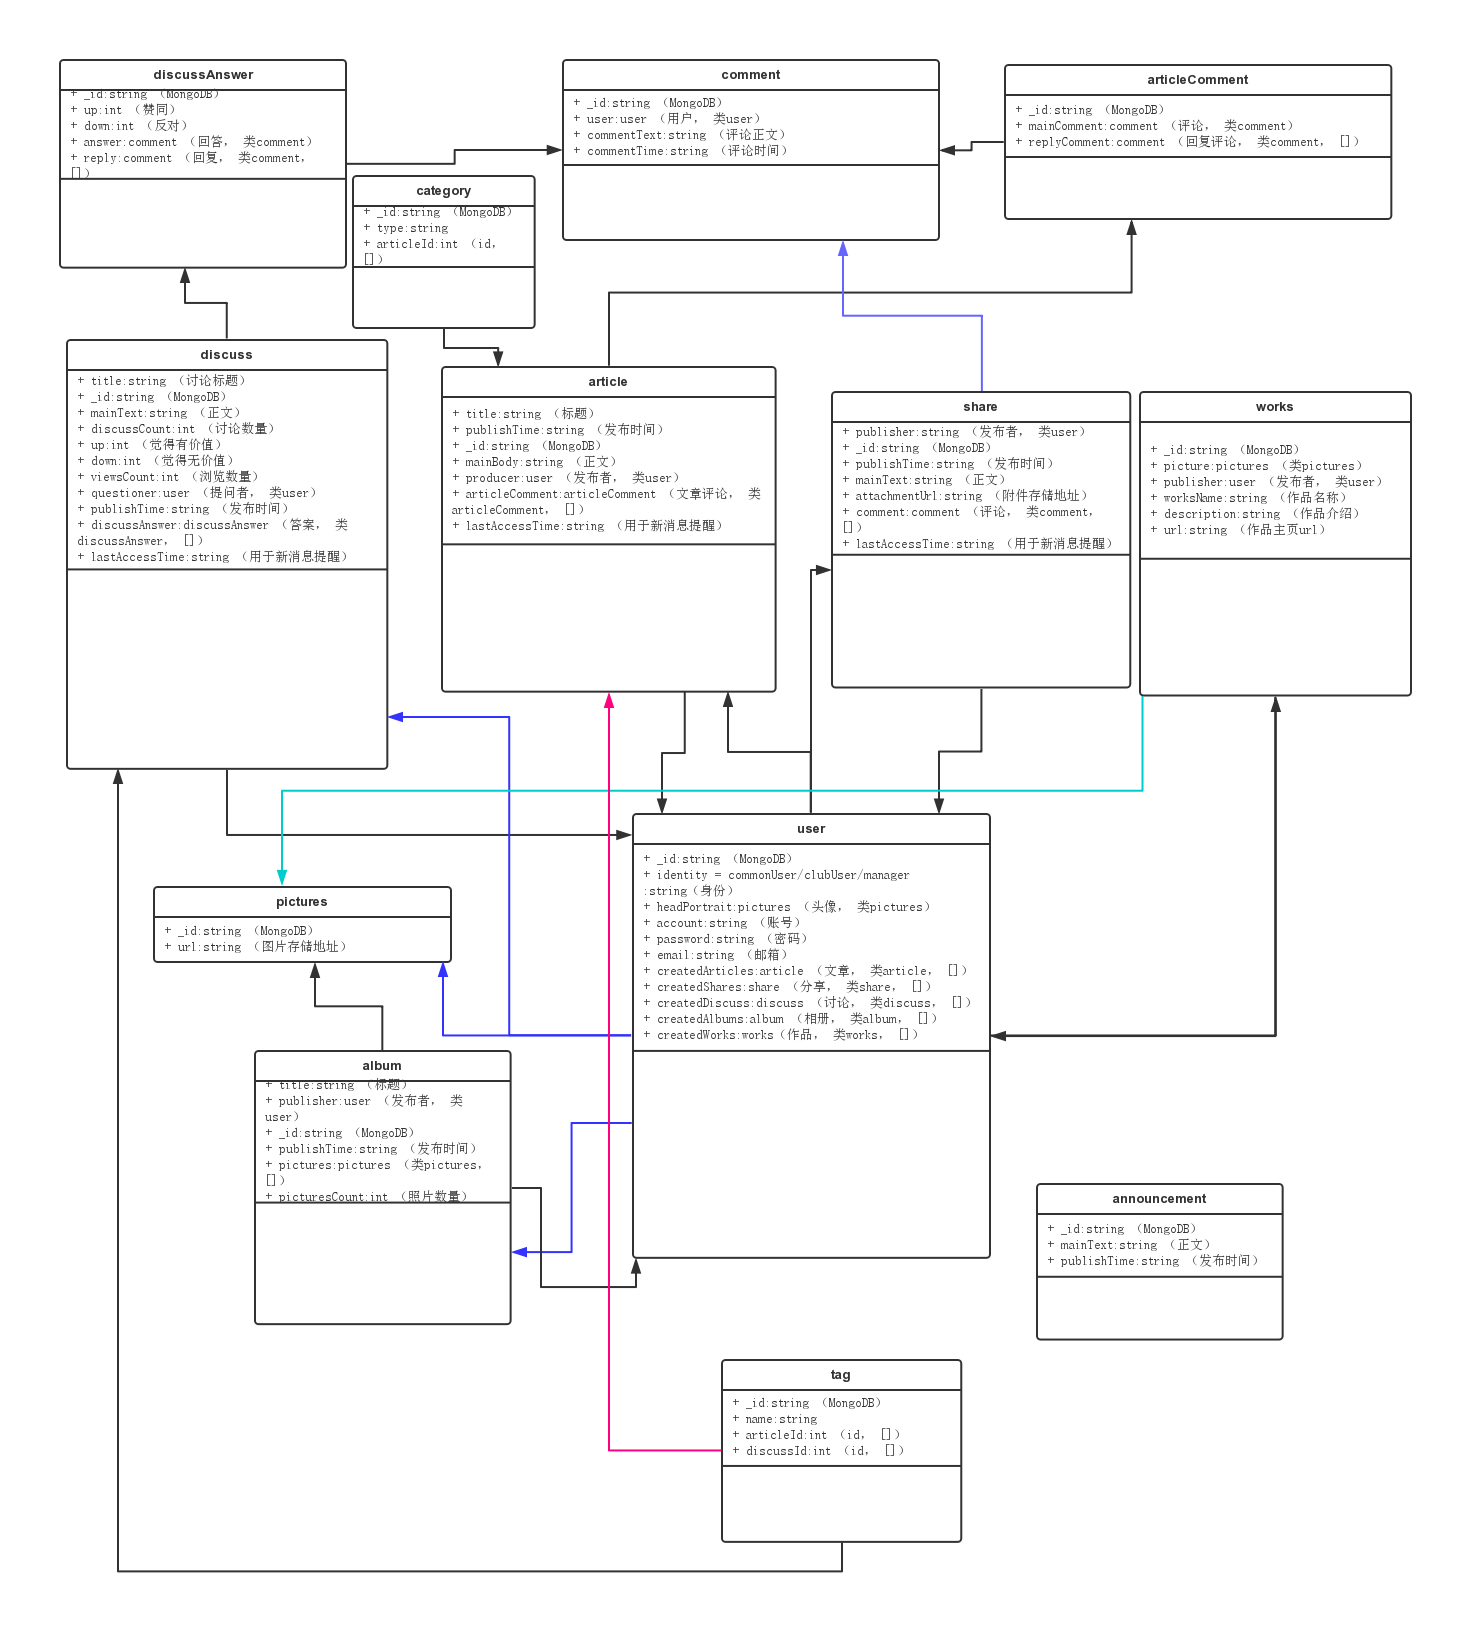
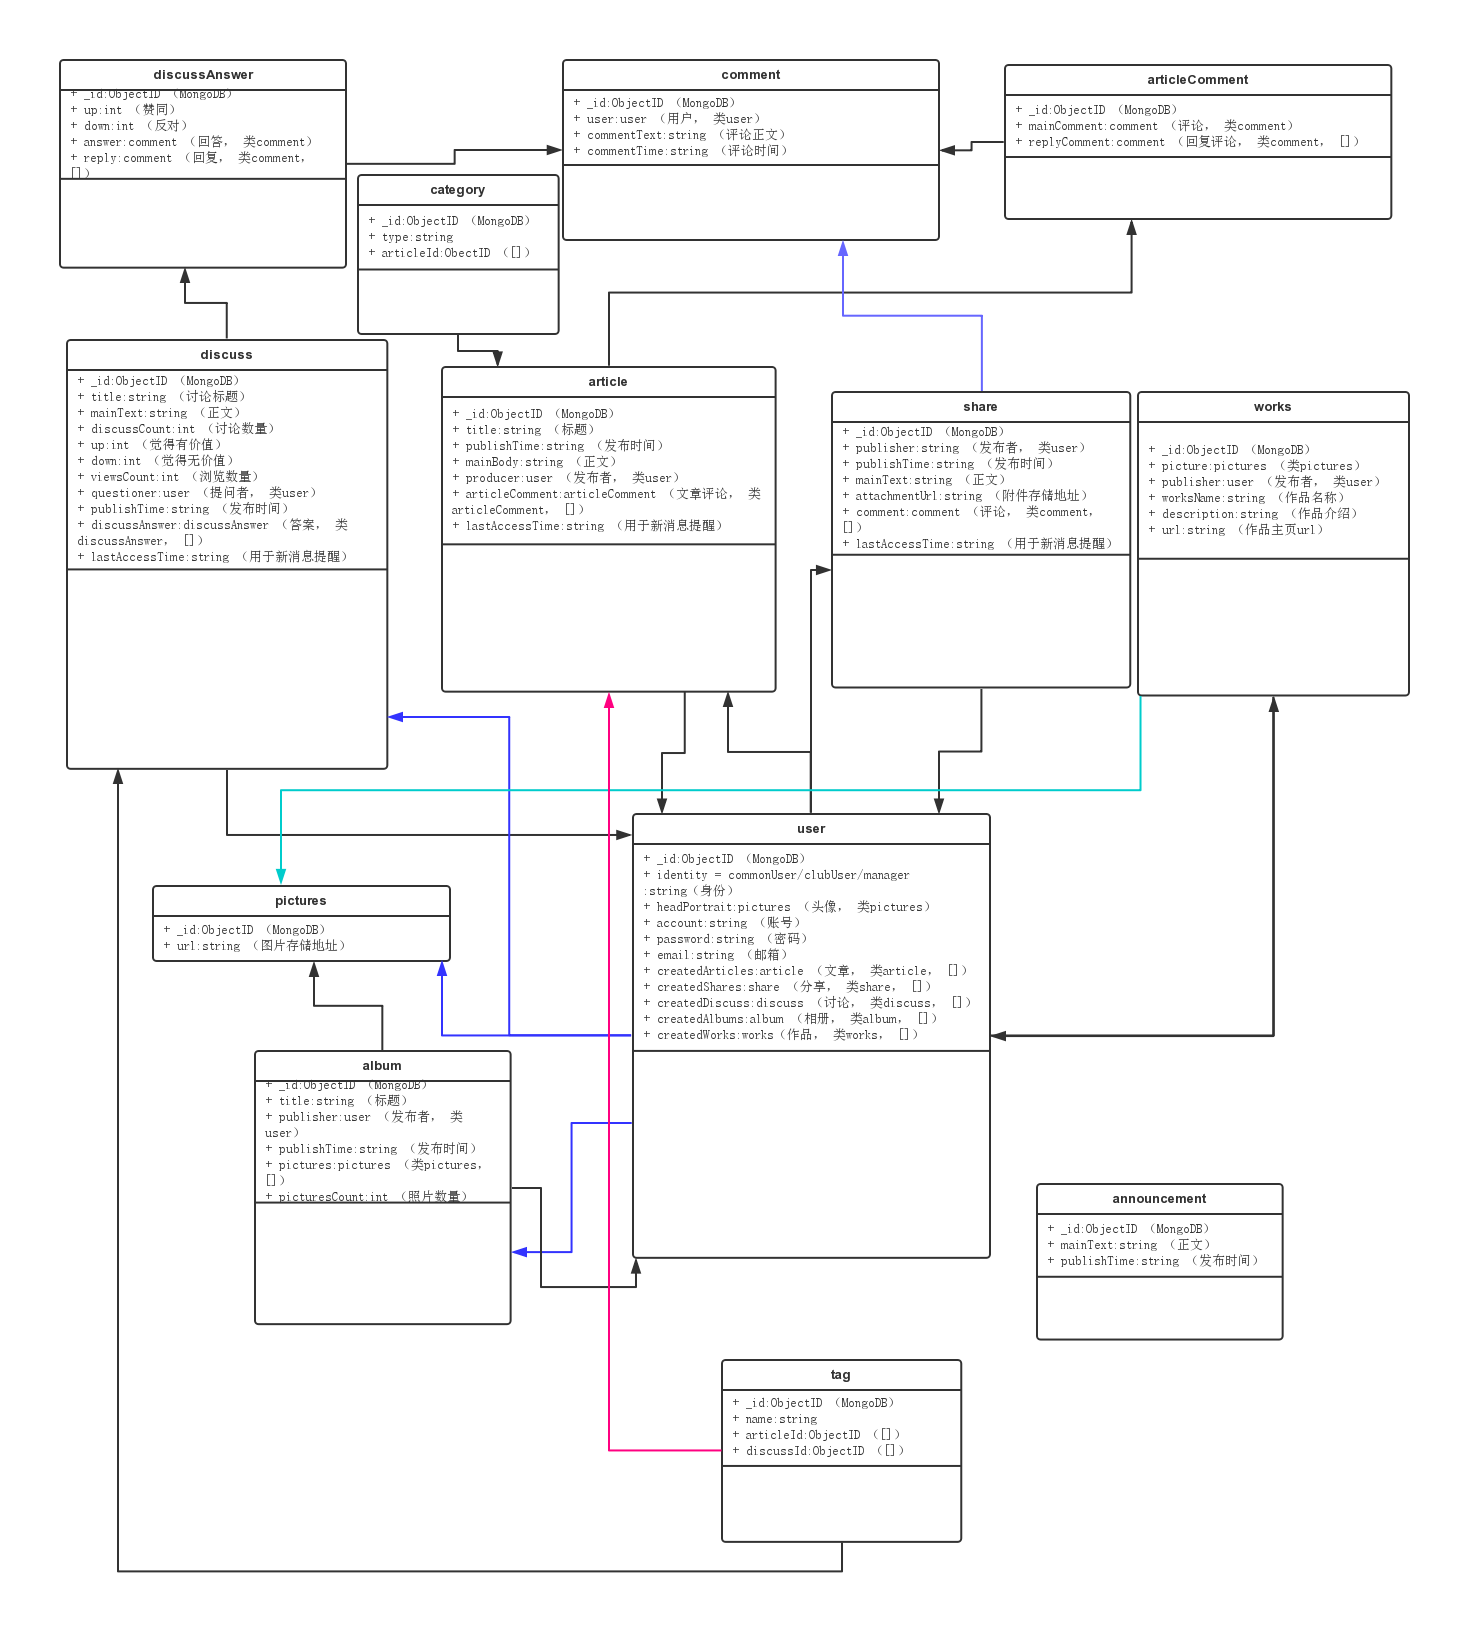
Finish collections part

diff --git a/server/collections/user.js b/server/collections/user.js
@@ -1,3 +1,16 @@
 /*
- *todo
+ *user
+ *{
+ *    _id: ObjectID,
+ *    identity: string,
+ *    headPortrait: pictures,
+ *    account: string,
+ *    password: string,
+ *    email: string,
+ *    createdArticles: [article],
+ *    createdShares: [share],
+ *    createdDiscuss: [discuss],
+ *    createdAlbums: [album],
+ *    createdWorks: [works]
+ *}
  */

diff --git a/server/collections/discuss.js b/server/collections/discuss.js
@@ -1,3 +1,16 @@
 /*
- *todo
+ *discuss
+ *{
+ *    _id: ObjectID,
+ *    title: string,
+ *    mainText: string,
+ *    discussCount: int,
+ *    up: int,
+ *    down: int,
+ *    viewsCOunt: int,
+ *    questioner: user,
+ *    publishTime: string,
+ *    discussAnswer: [discussAnswer],
+ *    lastAccessTime: string
+ *}
  */

diff --git a/server/collections/article.js b/server/collections/article.js
@@ -1,3 +1,12 @@
 /*
- *todo
+ *article
+ *{
+ *    _id: ObjectID,
+ *    title: string,
+ *    publishTime: string,
+ *    mainBody: string,
+ *    producer: user,
+ *    articleComment: [articleComment],
+ *    lastAccessTime: string
+ *}
  */

diff --git a/server/collections/share.js b/server/collections/share.js
@@ -1,3 +1,12 @@
 /*
- *todo
+ *share
+ *{
+ *    _id: ObjectID,
+ *    publisher: user,
+ *    publishTime: string,
+ *    mainText: string,
+ *    attachmentUrl: string,
+ *    comment: [comment],
+ *    lastAccessTime: string
+ *}
  */

diff --git a/server/collections/album.js b/server/collections/album.js
@@ -1,3 +1,11 @@
 /*
- *todo
+ *album
+ *{
+ *    _id: ObjectID,
+ *    title: string,
+ *    publisher: user,
+ *    publisherTime: string,
+ *    pictures: [pictures],
+ *    picturesCount: int
+ *}
  */

diff --git a/server/collections/works.js b/server/collections/works.js
@@ -1,3 +1,11 @@
 /*
- *todo
+ *works
+ *{
+ *    _id: ObjectID,
+ *    pictures: pictures,
+ *    publisher: user,
+ *    worksName: string,
+ *    description: string,
+ *    url: string
+ *}
  */

diff --git a/server/collections/discussAnswer.js b/server/collections/discussAnswer.js
@@ -1,3 +1,10 @@
 /*
- *todo
+ *discussAnswer
+ *{
+ *    _id: ObjectID,
+ *    up: int,
+ *    down: int,
+ *    answer: comment,
+ *    reply: [comment]
+ *}
  */

diff --git a/server/collections/tag.js b/server/collections/tag.js
@@ -1,3 +1,9 @@
 /*
- *todo
+ *tag
+ *{
+ *    _id: ObjectID,
+ *    name: string,
+ *    articleId: [ObjectID],
+ *    discussId: [ObjectID]
+ *}
  */

diff --git a/server/collections/comment.js b/server/collections/comment.js
@@ -1,3 +1,9 @@
 /*
- *todo
+ *comment
+ *{
+ *    _id: ObjectID,
+ *    user: user,
+ *    commentText: string,
+ *    commentTime: string
+ *}
  */

diff --git a/server/collections/articleComment.js b/server/collections/articleComment.js
@@ -1,3 +1,8 @@
 /*
- *todo
+ *articleComment
+ *{
+ *    _id: ObjectID,
+ *    mainComment: comment,
+ *    replyComment: [comment]
+ *}
  */

diff --git a/server/collections/announcement.js b/server/collections/announcement.js
@@ -1,3 +1,8 @@
 /*
- *todo
+ *announcement
+ *{
+ *    _id: ObjectID,
+ *    mainText: string,
+ *    publishTime: string
+ *}
  */

diff --git a/server/collections/category.js b/server/collections/category.js
@@ -1,3 +1,8 @@
 /*
- *todo
+ *category
+ *{
+ *    _id: ObjectID,
+ *    type: string,
+ *    articleId: [ObjectID]
+ *}
  */
